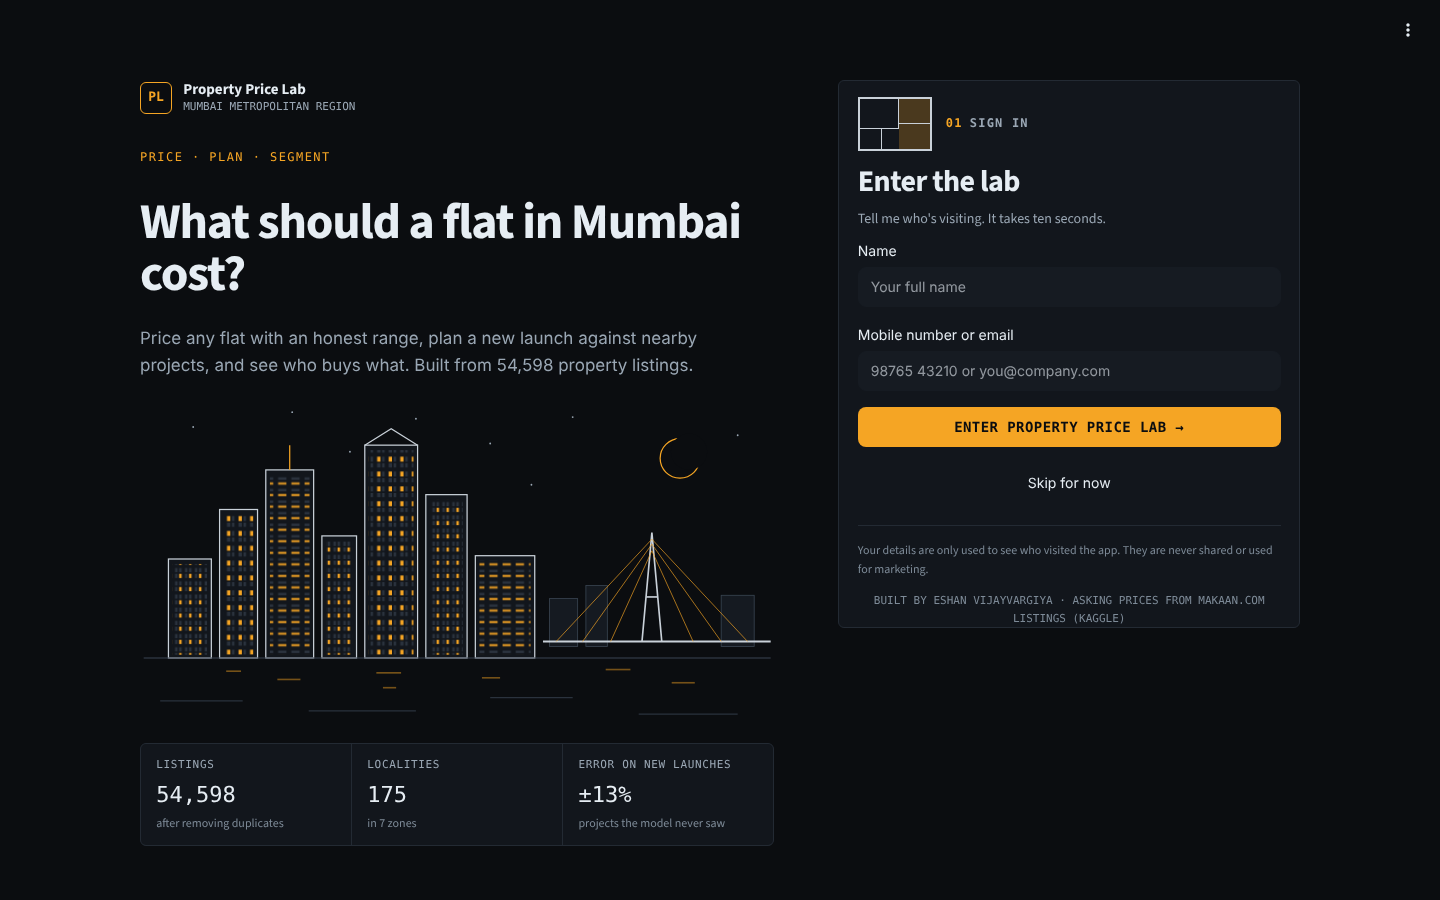
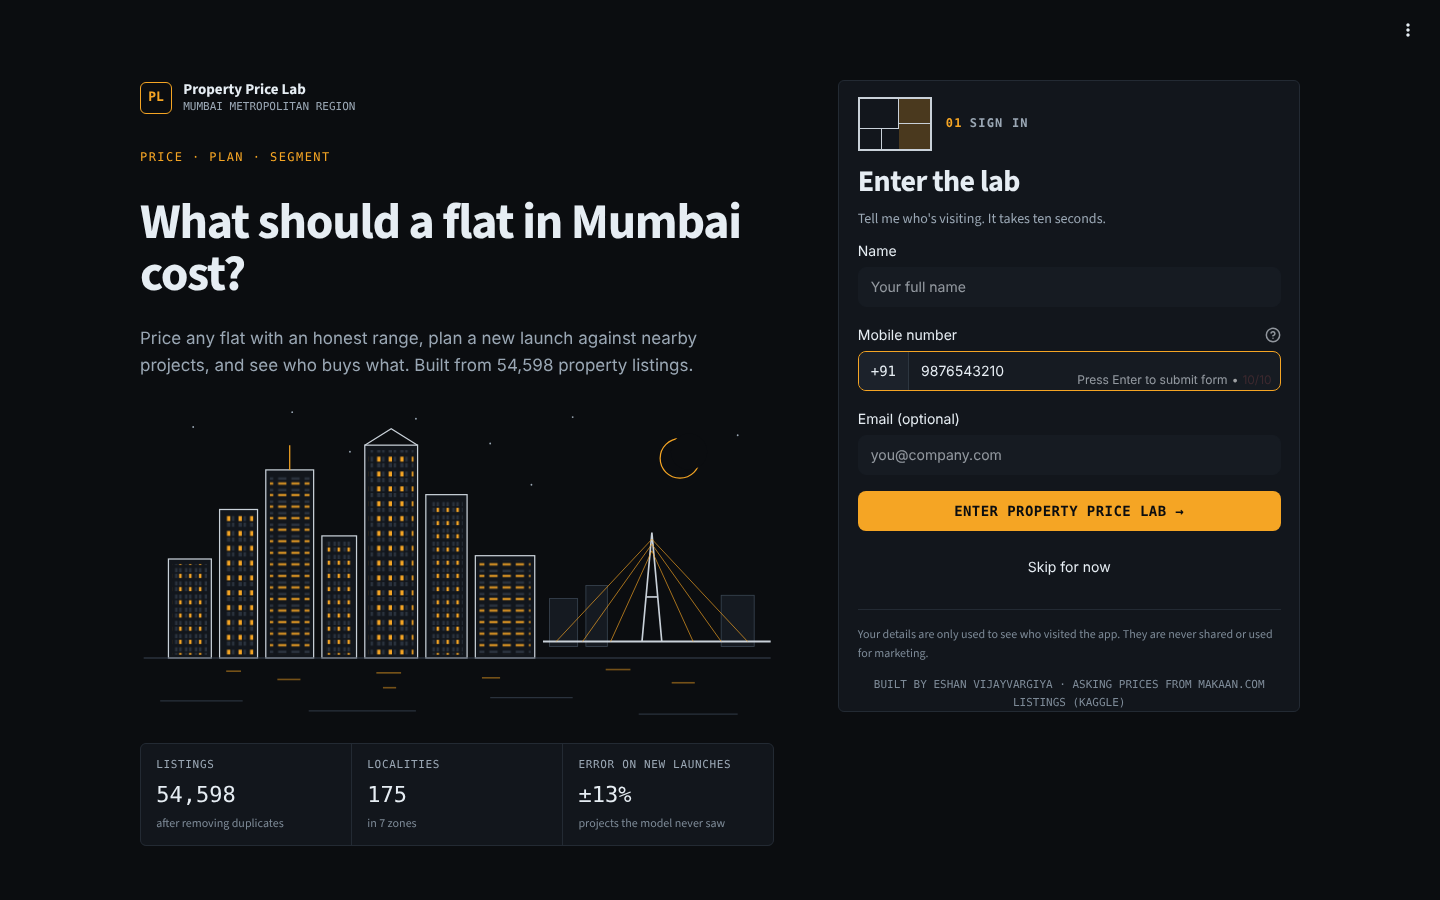
Excel link for sign-ins

Changed region(s): [[0.5938, 0.4044, 0.9062, 0.7467], [0.625, 0.7467, 0.875, 0.8089]]

diff --git a/app/pg_login.py b/app/pg_login.py
@@ -1,4 +1,4 @@
-"""Front page: sign in with a name and a mobile number or email, or skip.
+"""Front page: sign in with a name, a 10-digit mobile number (+91 fixed) and an optional email, or skip.
 
 If the app has a `signin_webhook` secret (a Google Apps Script web-app URL), each sign-in is appended to
 a private Google Sheet. Without it the form still works; nothing is stored. See docs/SIGNIN_SETUP.md.
@@ -14,22 +14,42 @@ import art
 import core
 import style
 
-EMAIL = re.compile(r"^[^@\s]+@[^@\s]+\.[A-Za-z]{2,}$")
+EMAIL = re.compile(r"^[A-Za-z0-9][^@\s]*@[^@\s]+\.[A-Za-z]{2,}$")
+# letters (English or Hindi), spaces, dots, apostrophes, hyphens; must start with a letter.
+# This also stops text like "=HYPERLINK(...)" from being saved as a formula in the sheet.
+NAME = re.compile(r"^[A-Za-z\u00C0-\u024F\u0900-\u097F][A-Za-z\u00C0-\u024F\u0900-\u097F .'\-]{1,59}$")
 
 
-def clean_contact(text):
-    """Return (kind, value) for a valid Indian mobile or an email, else (None, reason)."""
-    t = text.strip()
-    if EMAIL.match(t):
-        return "email", t.lower()
-    digits = re.sub(r"[\s\-()]", "", t)
-    digits = re.sub(r"^(\+91|0091|91(?=\d{10}$)|0(?=\d{10}$))", "", digits)
-    if re.fullmatch(r"[6-9]\d{9}", digits):
-        return "mobile", digits
-    return None, "Enter a 10-digit mobile number or an email address."
+def clean_name(text):
+    t = re.sub(r"\s+", " ", (text or "").strip())
+    if len(t) < 2:
+        return None, "Please enter your name."
+    if not NAME.match(t):
+        return None, "Use letters only in your name (spaces, dots and hyphens are fine)."
+    return t, None
 
 
-def save(name, contact, kind):
+def clean_mobile(text):
+    """'98765 43210' -> ('9876543210', None); anything else -> (None, reason). +91 is fixed in the box."""
+    digits = re.sub(r"\D", "", text or "")
+    if not digits:
+        return None, "Enter your mobile number."
+    if len(digits) != 10:
+        return None, f"A mobile number has 10 digits; you entered {len(digits)}."
+    if digits[0] not in "6789":
+        return None, "Indian mobile numbers start with 6, 7, 8 or 9."
+    return digits, None
+
+
+def clean_email(text):
+    """Optional: '' is fine; otherwise it must look like an email."""
+    t = (text or "").strip()
+    if not t:
+        return "", None
+    return (t.lower(), None) if EMAIL.match(t) else (None, "That email doesn't look right (example: you@company.com).")
+
+
+def save(name, mobile, email):
     """Best effort: a failure here never blocks the visitor."""
     try:
         url = st.secrets.get("signin_webhook", "")
@@ -37,8 +57,10 @@ def save(name, contact, kind):
         url = ""
     if not url:
         return False
+    # contact/kind kept so a sheet script written for the first version of the form still works
     body = json.dumps({"time": datetime.now(timezone.utc).isoformat(timespec="seconds"), "name": name,
-                       "contact": contact, "kind": kind, "app": "property-price-lab"}).encode()
+                       "mobile": "+91" + mobile, "email": email, "contact": "+91" + mobile, "kind": "mobile",
+                       "app": "property-price-lab"}).encode()
     try:
         req = urllib.request.Request(url, data=body, headers={"Content-Type": "application/json"}, method="POST")
         urllib.request.urlopen(req, timeout=6).read(200)
@@ -73,17 +95,24 @@ def render(go):
         <div class="card-p" style="margin-bottom:.6rem">Tell me who's visiting. It takes ten seconds.</div>""")
         with st.form("signin", border=False):
             name = st.text_input("Name", placeholder="Your full name", max_chars=60)
-            contact = st.text_input("Mobile number or email", placeholder="98765 43210 or you@company.com", max_chars=80)
+            # +91 is drawn inside the box (style.py); the box itself takes at most 10 characters
+            mobile = st.text_input("Mobile number", placeholder="9876543210", max_chars=10, key="mobile",
+                                   help="10-digit Indian mobile number. +91 is added for you.")
+            email = st.text_input("Email (optional)", placeholder="you@company.com", max_chars=80)
             sent = st.form_submit_button("ENTER PROPERTY PRICE LAB →", type="primary", width="stretch")
         if sent:
-            kind, value = clean_contact(contact)
-            if len(name.strip()) < 2:
-                st.error("Please enter your name.")
-            elif kind is None:
-                st.error(value)
+            person, name_problem = clean_name(name)
+            number, problem = clean_mobile(mobile)
+            mail, mail_problem = clean_email(email)
+            if name_problem:
+                st.error(name_problem)
+            elif problem:
+                st.error(problem)
+            elif mail_problem:
+                st.error(mail_problem)
             else:
-                save(name.strip(), value, kind)
-                st.session_state.visitor = name.strip().split()[0].title()
+                save(person, number, mail)
+                st.session_state.visitor = person.split()[0].title()
                 go("Home")
                 st.rerun()
         if st.button("Skip for now", type="tertiary", width="stretch", key="skip"):

diff --git a/docs/excel_visitors_query.m b/docs/excel_visitors_query.m
@@ -1,0 +1,17 @@
+// Power Query (Excel): pulls every sign-in from the Google Sheet into a table that refreshes.
+// Paste into Excel: Data -> Get Data -> From Other Sources -> Blank Query -> Advanced Editor.
+// Replace the two values below with your web-app URL (ends in /exec) and the KEY from your Apps Script.
+let
+    Url = "https://script.google.com/macros/s/PASTE-YOUR-DEPLOYMENT-ID/exec",
+    Key = "change-me-to-a-long-secret-word",
+    Source = Json.Document(Web.Contents(Url, [Query = [key = Key]])),
+    Checked = if Source is record
+        then error Error.Record("The sheet refused", Record.FieldOrDefault(Source, "error", "check the URL and KEY"))
+        else Source,
+    Rows = Table.FromRecords(Checked, {"time", "name", "mobile", "email", "app"}, MissingField.UseNull),
+    Times = Table.TransformColumns(Rows, {{"time", each try DateTimeZone.RemoveZone(DateTimeZone.ToLocal(DateTimeZone.FromText(_))) otherwise null, type datetime}}),
+    Typed = Table.TransformColumnTypes(Times, {{"name", type text}, {"mobile", type text}, {"email", type text}, {"app", type text}}),
+    Renamed = Table.RenameColumns(Typed, {{"time", "Signed in"}, {"name", "Name"}, {"mobile", "Mobile"}, {"email", "Email"}, {"app", "App"}}),
+    Newest = Table.Sort(Renamed, {{"Signed in", Order.Descending}})
+in
+    Newest

diff --git a/app/style.py b/app/style.py
@@ -152,6 +152,10 @@ div[class*="st-key-card-go"] button p { text-align: left; }
 .react-aria-SelectionIndicator { display: none !important; }
 
 /* sign-in page */
+.st-key-mobile [data-testid="stTextInputRootElement"]::before { content: "+91"; display: flex; align-items: center; padding: 0 .75rem;
+  font-family: 'IBM Plex Mono', Consolas, monospace; font-size: 14px; color: #e6edf3; border-right: 1px solid #2d3640;
+  background: #1c222b; border-radius: 6px 0 0 6px; align-self: stretch; flex: 0 0 auto; }
+@media (max-width: 640px) { .st-key-card-signin [data-testid="InputInstructions"] { display: none; } }
 .signin-hero { padding: .4rem 1rem 0 0; }
 .signin-hero .eyebrow { font-family: 'IBM Plex Mono', monospace; font-size: 12px; letter-spacing: .12em; color: #f5a524; }
 .signin-hero h1 { font-size: 50px; font-weight: 700; letter-spacing: -0.025em; line-height: 1.05; margin: .5rem 0 .6rem; color: #e6edf3; }

diff --git a/docs/SIGNIN_SETUP.md b/docs/SIGNIN_SETUP.md
@@ -1,49 +1,67 @@
-# Saving sign-ins to a private Google Sheet
+# Sign-ins: Google Sheet → your Excel file
 
-The app's front page asks for a name and a mobile number or email (or "Skip for now").
-Streamlit Community Cloud forgets files when the app restarts, so sign-ins are sent to a Google
-Sheet that only you can see. Without this setup the sign-in page still works; it just saves nothing.
+The app's front page asks for a name, a 10-digit mobile number (+91 is fixed) and an optional email,
+or "Skip for now". The app runs in the cloud, so it can't write to a file on your laptop. Instead:
+
+```
+App (Streamlit Cloud) --POST--> private Google Sheet --GET with your KEY--> Excel on your laptop (Refresh All)
+```
+
+Without this setup the sign-in page still works; it just saves nothing.
 
 ## 1. Make the sheet
 
 1. Open [sheets.new](https://sheets.new) and name it `Property Price Lab visitors`.
-2. Type these headers in row 1: `time` · `name` · `contact` · `kind` · `app`.
+2. Type these headers in row 1, exactly: `time` · `name` · `mobile` · `email` · `app`.
 
-## 2. Add a small script to the sheet
+## 2. Add the script
 
 1. In the sheet: **Extensions → Apps Script**.
-2. Delete what's there and paste:
+2. Delete what's there and paste the whole of [`apps_script.gs`](apps_script.gs).
+3. On the `const KEY = ...` line, replace `change-me-to-a-long-secret-word` with your own long secret
+   (e.g. three random words and a number). Excel uses it to read the sheet. **Never put your real KEY on GitHub.**
+4. Click **Save** (the disk icon).
 
-```javascript
-function doPost(e) {
-  const d = JSON.parse(e.postData.contents);
-  const sheet = SpreadsheetApp.getActiveSpreadsheet().getSheets()[0];
-  sheet.appendRow([d.time, d.name, d.contact, d.kind, d.app]);
-  return ContentService.createTextOutput("ok");
-}
-```
-
-3. Click **Save** (the disk icon).
+What it does: `doPost` adds each sign-in as a row (stored as plain text, so `+91…` stays a phone number and
+nothing can run as a formula). `doGet` gives all rows to Excel, but only when the right KEY is sent.
 
 ## 3. Publish the script as a web app
 
-1. **Deploy → New deployment**. Click the gear next to "Select type" and choose **Web app**.
-2. Execute as: **Me**. Who has access: **Anyone**.
-3. Click **Deploy**, then **Authorize access** and allow it with your Google account
-   (Google shows a warning for your own unverified script: **Advanced → Go to … (unsafe)** is expected).
-4. Copy the **Web app URL** (it ends in `/exec`).
+- **First time:** **Deploy → New deployment**, gear icon → **Web app**. Execute as: **Me**. Who has access:
+  **Anyone**. **Deploy**, then **Authorize access** (Google warns about your own unverified script:
+  **Advanced → Go to … (unsafe)** is expected). Copy the **Web app URL** (ends in `/exec`).
+- **Already deployed once?** **Deploy → Manage deployments → ✎ Edit → Version: New version → Deploy**.
+  The URL stays the same.
 
-"Anyone" only means anyone with that long secret URL can add a row. It cannot read the sheet.
+"Anyone" means anyone with the long secret URL can add a row. Reading the rows also needs your KEY.
 
 ## 4. Give the URL to the app
 
-1. On [share.streamlit.io](https://share.streamlit.io), open the app's **⋮ → Settings → Secrets**.
-2. Paste, with your URL:
+On [share.streamlit.io](https://share.streamlit.io): the app's **⋮ → Settings → Secrets**, paste (your URL):
 
 ```toml
 signin_webhook = "https://script.google.com/macros/s/XXXXXXXX/exec"
 ```
 
-3. Save. The app restarts; the next sign-in appears as a new row in the sheet.
+Save. The app restarts; the next sign-in appears as a new row in the sheet.
 
-Never put this URL in the code or on GitHub; the Secrets box keeps it private.
+## 5. Connect Excel (once)
+
+Check first: open `YOUR-URL?key=YOUR-KEY` in a browser. You should see `[]` (no sign-ins yet) or a list.
+
+1. Excel → **Blank workbook** → **Data → Get Data → From Other Sources → Blank Query**.
+2. In the Power Query window: **Home → Advanced Editor**, delete everything, paste
+   [`excel_visitors_query.m`](excel_visitors_query.m), and replace the `Url` and `Key` values with yours. **Done**.
+3. If Excel asks how to connect: **Edit Credentials → Anonymous → Connect**.
+4. In the right panel, rename the query to `Visitors`. **Home → Close & Load**: a table of sign-ins appears,
+   newest first, with time in Indian time.
+5. **Data → Queries & Connections**, right-click **Visitors → Properties**: tick **Refresh every 10 minutes** and
+   **Refresh data when opening the file** → OK.
+6. Save it **outside** the GitHub folder, e.g. `Documents\Property Price Lab visitors.xlsx`: it contains your KEY.
+
+From now on **Data → Refresh All** (or just opening the file) pulls the latest sign-ins.
+
+## Already set up the sheet with the first version?
+
+Replace the script with `apps_script.gs` (step 2), rename the headers to `time, name, mobile, email, app`, and
+redeploy as a new version (step 3). In the old rows, clear the `email` column: it held the word "mobile".

diff --git a/INTERVIEW_NOTES.md b/INTERVIEW_NOTES.md
@@ -177,9 +177,11 @@ builder brand, and enquiry data, so the segments become real buyer segments and 
 leads will book.
 
 **Why a sign-in page?** Property sites capture leads before showing prices, so I built the same flow: name
-plus mobile or email, checked (a 10-digit Indian mobile starting 6-9, or a valid email), with *Skip for now* so
-nobody is forced. Sign-ins go to a private Google Sheet through a secret web-hook URL kept in Streamlit's
-Secrets, never in the code. If saving fails, the visitor still gets in.
+plus a mobile number (+91 fixed, the box takes at most 10 digits, and it must start with 6-9) and an optional
+email, with *Skip for now* so nobody is forced. Sign-ins go to a private Google Sheet through a secret web-hook URL kept in Streamlit's
+Secrets, never in the code. If saving fails, the visitor still gets in. My Excel file reads the sheet through
+Power Query (a JSON endpoint that needs a private key), so Data → Refresh All shows the newest sign-ins.
+Everything is stored as plain text, so a name like `=HYPERLINK(...)` can't run as a formula.
 
 **Why line drawings, not photos?** Everything is drawn in code, so there's nothing to license, and the drawings
 carry data: each locality's skyline is taller where prices are higher, and the floor plan redraws with the flat

diff --git a/README.md b/README.md
@@ -12,7 +12,7 @@ property listings and tested the way a developer would actually use it.
 
 | Page | What it does |
 |---|---|
-| **Sign-in page** | Name plus mobile number or email (validated), or *Skip for now*. Sign-ins can go to a private Google Sheet: [docs/SIGNIN_SETUP.md](docs/SIGNIN_SETUP.md) |
+| **Sign-in page** | Name, mobile number (+91 fixed, exactly 10 digits, must start 6-9) and an optional email, or *Skip for now*. Sign-ins go to a private Google Sheet and from there into an Excel file that refreshes (Power Query): [docs/SIGNIN_SETUP.md](docs/SIGNIN_SETUP.md) |
 | **Price estimator** | Describe a flat (locality, project, BHK, area, status, new/resale): get an asking price, an 80% range (with the model's real past errors behind it), a floor plan that redraws with the flat type, the locality's own skyline and numbers, the same flat across Mumbai, what-ifs and similar listings |
 | **Launch planner** | For a developer: price a new project's unit mix and see where it sits against the projects already selling in that locality |
 | **Market explorer** | A locality price index (the same standard flat everywhere), zone profiles, a deep-dive on any locality |
